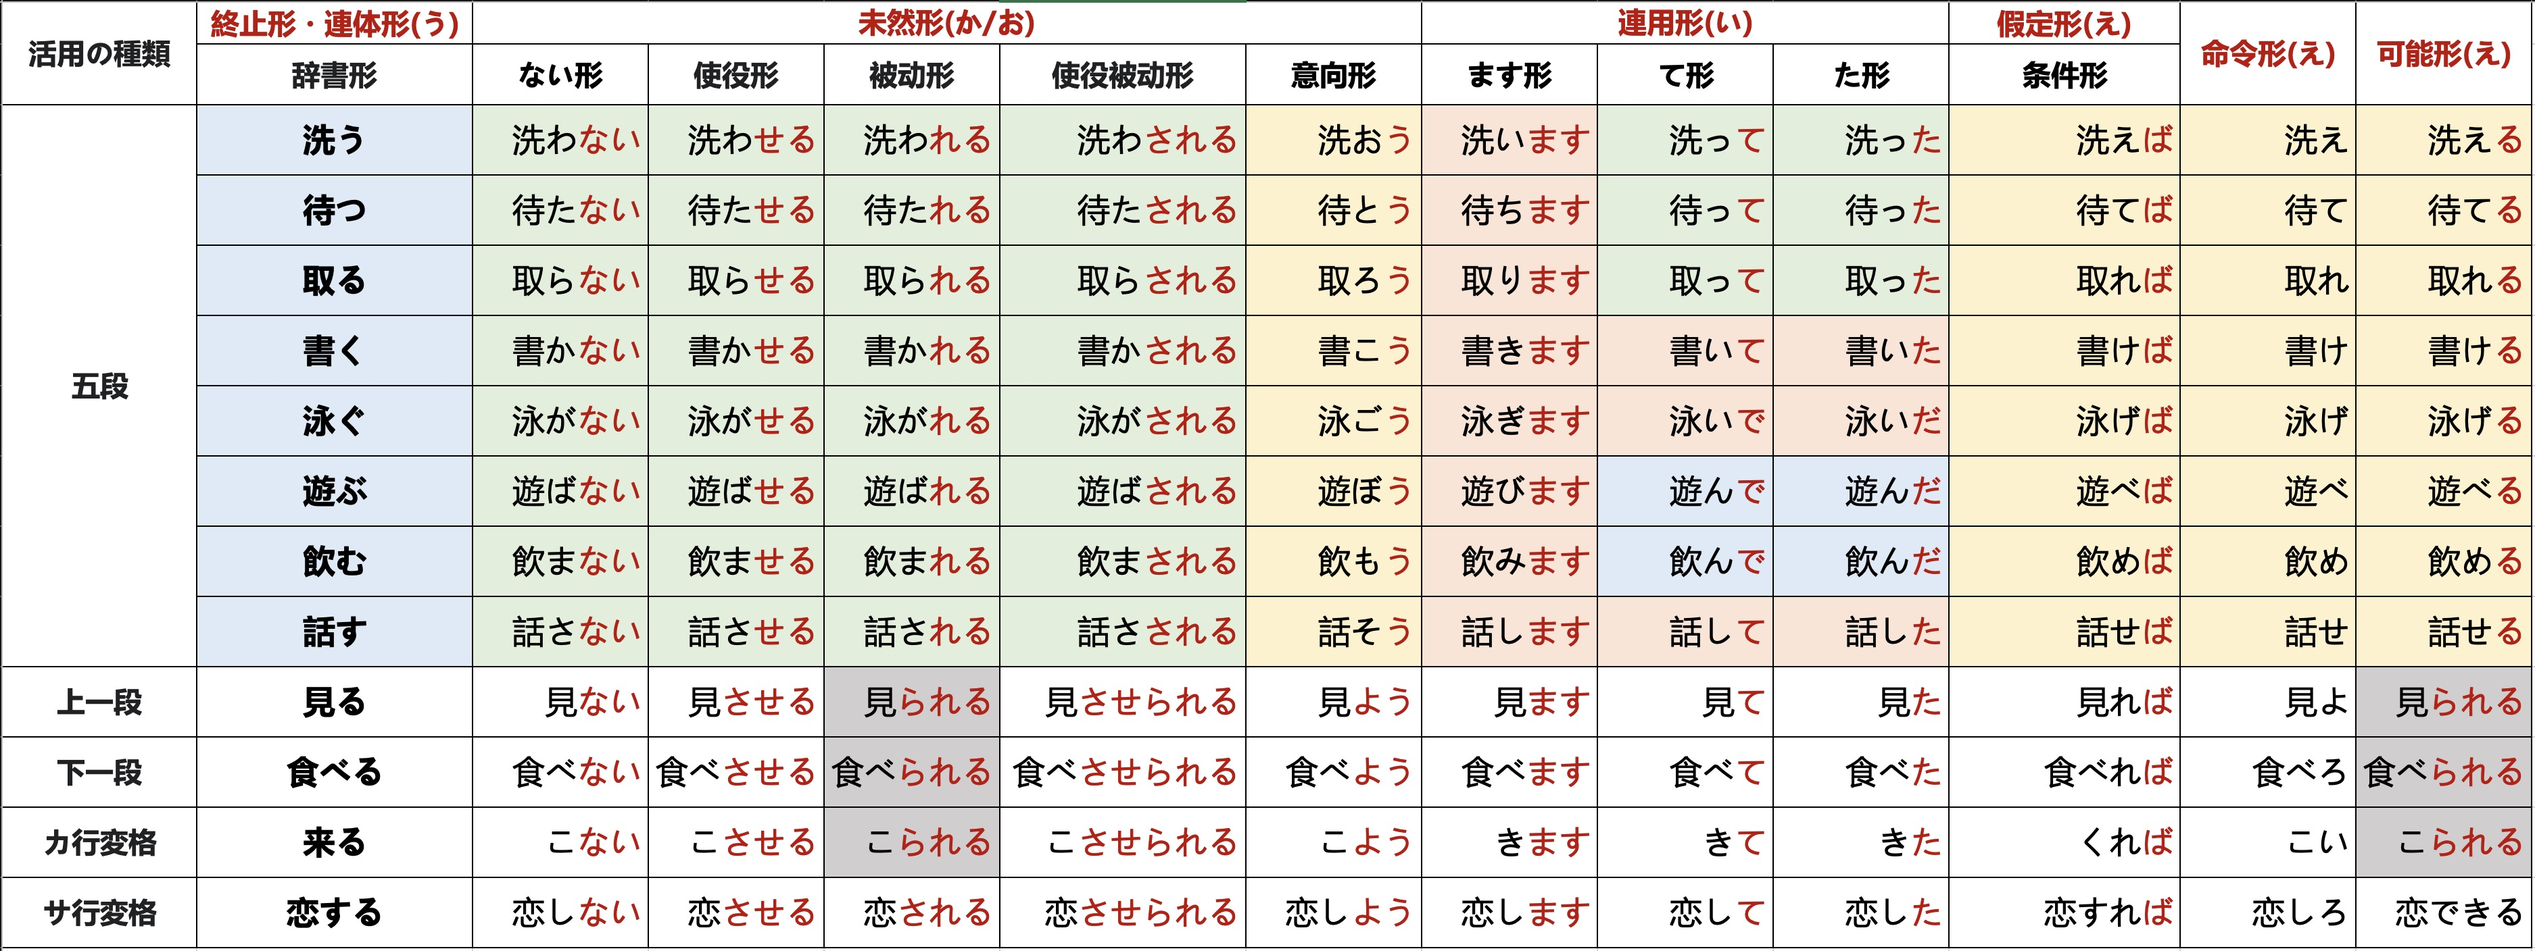
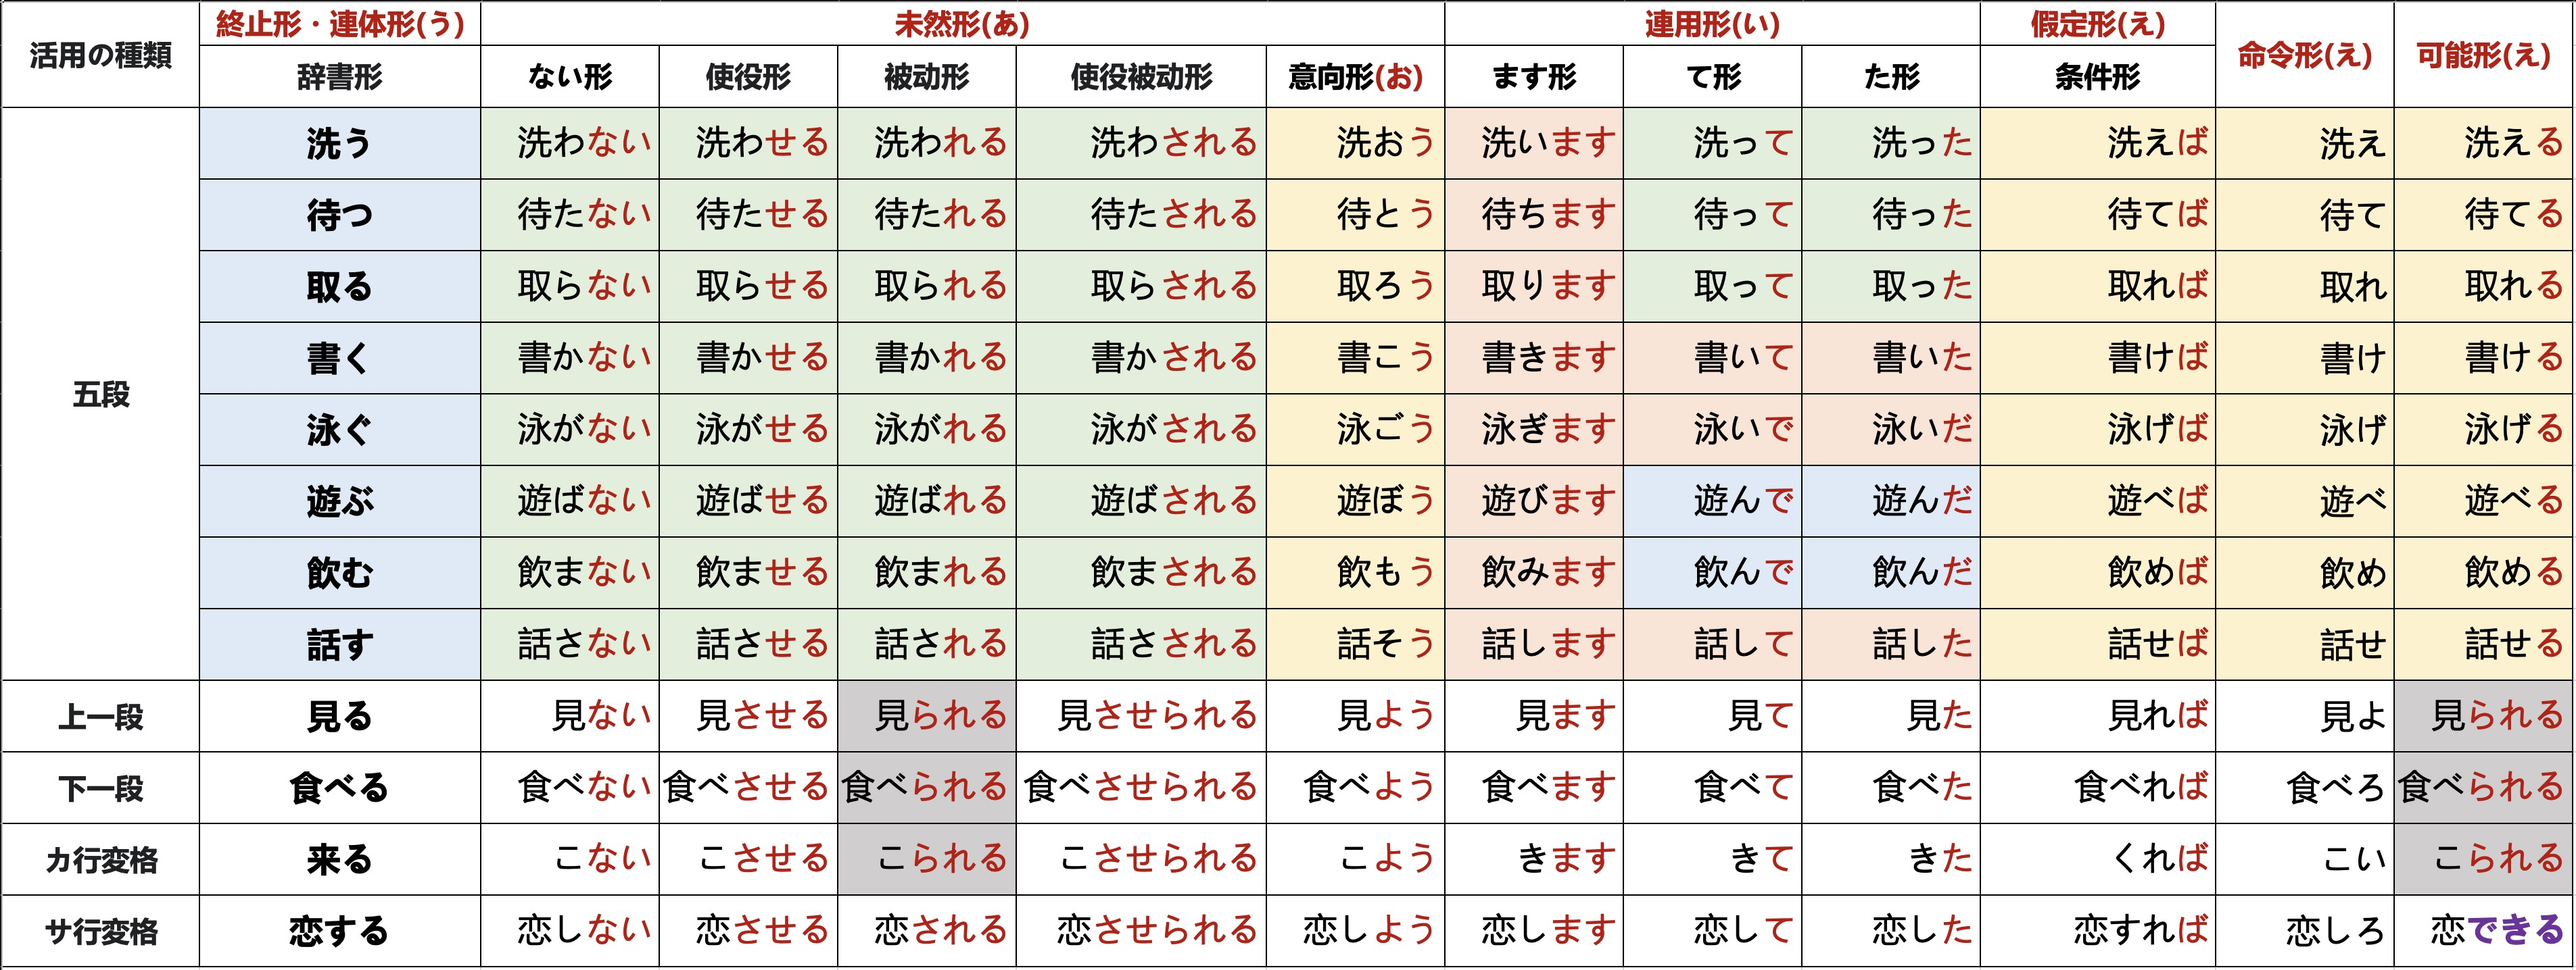
update Japanese grammar

diff --git a/docs-japanese/intro.md b/docs-japanese/intro.md
@@ -4,18 +4,6 @@ sidebar_position: 1
 
 # 日语语法
 
-<!-- export const Highlight = ({children, color}) => (
-  <span
-    style={{
-      backgroundColor: color,
-      borderRadius: '2px',
-      color: '#fff',
-      padding: '0.2rem',
-    }}>
-    {children}
-  </span>
-); -->
-
 export const Hb = ({children, color}) => (
   <span
     style={{
@@ -77,12 +65,12 @@ export const Hc = ({children, color}) => (
 
 ## 日语结构
 
-- 文章
-- 段落
-- 句子：以（。）为标志。
-- 节（复文）
-- 词组：友達と
-- 单词：友達
+1. <Hb>文章</Hb>
+1. <Hb>段落</Hb>
+1. <Hb>句子</Hb>：以<Hr>。</Hr>为标志
+1. <Hb>文节</Hb>：复文
+1. <Hb>词组</Hb>：友達と
+1. <Hb>单词</Hb>：友達
 
 
 ***
@@ -116,27 +104,29 @@ export const Hc = ({children, color}) => (
 日语侧重主题，而非主语
 
 ### 主题：提示出句子所描述的范围
-- 私<Hc>は</Hc>日本人です。 （「日本人です」的范围是「私」）
-- 桜<Hc>は</Hc>きれいです。 （「きれいです」的范围是「桜」）
-- 先生<Hc>は</Hc>トイレです。 （「トイレです」的范围是「先生」，不是「先生是厕所」）
-- 象<Hc>は</Hc>鼻が長いです。 （「鼻が長いです」的范围是「象」，鼻が＝补足语）
+- &ensp;&ensp;&ensp;&ensp;私<Hc>は</Hc>日本人です。 （「日本人です」的范围是「私」）
+- &ensp;&ensp;&ensp;&ensp;桜<Hc>は</Hc>きれいです。 （「きれいです」的范围是「桜」）
+- &ensp;&ensp;先生<Hc>は</Hc>トイレです。 （「トイレです」的范围是「先生」，不是「先生是厕所」）
+- &ensp;&ensp;&ensp;&ensp;象<Hc>は</Hc>鼻が長いです。 （「鼻が長いです」的范围是「象」，鼻が＝补足语）
 - ケーキ<Hc>は</Hc>太郎が買いました。 （「（太郎が）買いました」的范围是「ケーキ」，太郎が＝补足语）
 
 
 ### 主题和主语
-当述语的主语<Hb>是</Hb>主题时，使用<Hr>は</Hr>，重点在<Hb>述部</Hb>
+当述语的主语<Hb>是</Hb>&ensp;&ensp;主题时，使用<Hr>は</Hr>，重点在<Hb>述部</Hb>
 
 当述语的主语<Hb>不是</Hb>主题时，使用<Hr>が</Hr>，重点在<Hb>主语</Hb>
 
-### 主语作为补足语并非必要成分
+<br/>
+
+#### 主语作为补足语并非必要成分
 - 雨だ。
 - 八時ですよ。
 - どこへ行きますか。
 
-### 主题也不是必要成分
-雪が降っている。
-空が赤い。
-走れ！
+#### 主题也不是必要成分
+- 雪が降っている。
+- 空が赤い。
+- 走れ！
 
 
 
@@ -144,7 +134,7 @@ export const Hc = ({children, color}) => (
 
 ## 述语
 
-<Hr>四种文体</Hr>
+<Hr>四种形式</Hr>： <Hb>现在</Hb>+<Hb>过去</Hb>+<Hb>肯定</Hb>+<Hb>否定</Hb>
 
 ### 名词句
 - 〇〇<Hb>は</Hb>何だ:是什么

diff --git a/docs-japanese/动词名词化.md b/docs-japanese/动词名词化.md
@@ -41,7 +41,7 @@ export const Hc = ({children, color}) => (
   </span>
 );
 
-## 动词接续形式名词当作补足语
+## 动词连体形 + 形式名词 = 补足语
 
 常用形式名词：　<Hr>の</Hr>　<Hr>こと</Hr>
 
@@ -56,7 +56,7 @@ export const Hc = ({children, color}) => (
 - <Hc>便利なの</Hc><Hb>は</Hb>魅力的ですが、家賃がちょっと....
 - <Hc>好きなの</Hc><Hb>を</Hb>持っていってください。
 
-## 只能使用「〜こと」
+## 只能使用「〜こと」的情况
 
 ### 1. 定型表现
 
@@ -80,7 +80,7 @@ export const Hc = ({children, color}) => (
 - 趣味は本を<Hc>読むこと</Hc>です。
 - ❌ 趣味は本を<Hc>読むの</Hc>だ。
 
-## 只能使用「〜の」
+## 只能使用「〜の」的情况
 
 当表示<Hb>情报</Hb>、<Hb>资讯</Hb>时，这时只能使用「の」，而不能使用「こと」。<br/>
 严格来说，这里的「の」属于「形式名词」的功能。<br/>
@@ -92,13 +92,14 @@ export const Hc = ({children, color}) => (
 - 彼は <Hc>日本から持って来たの</Hc><Hb>は</Hb>携帯だ。 (他從日本帶回的是手機)
 - <Hc>電車が遅れたの</Hc><Hb>は</Hb>機械の故障だ。(造成電車誤點的是機械故障)
 
-### １. 強調構文　代名詞
+### １. 强调构文
+
+
+名词を强调して述べる强调构文の场合、「～の」しか使うことができません。
 
 <Hc>私が生まれたの</Hc><Hb>は</Hb>小さな町だ。<br/>
-<Hc>私が注文したの</Hc><Hb>は</Hb>スパゲッティだ。
+<Hc>私が注文したの</Hc><Hb>は</Hb>スパゲッティだ。<br/>
 
-
-のように名词を强调して述べる强调构文の场合、「～の」しか使うことができません。
 
 此种情况下，只能使用「の」、而不能使用「こと」，以中文来思考就 会很容易理解。「の」意为「的」，「こと」的汉字写作「事」、意为「事 情」，因此，使用「こと」代换就会变得很不自然。
 
@@ -111,7 +112,7 @@ export const Hc = ({children, color}) => (
 - <Hc>修学旅行に行けないの</Hc><Hb>は</Hb>病気のためです。
 - <Hc>今朝遅刻したの</Hc><Hb>は</Hb>電車が遅れたからです。
 
-### ２. 知覚動詞の前
+### ２. 知觉动词前
 
 「見る」や「聞く」など知覚を表す動詞の前では「の」しか使うことができません。
 

diff --git a/docs-japanese/日语词法.md b/docs-japanese/日语词法.md
@@ -4,7 +4,44 @@ sidebar_position: 2
 
 # 日语词法
 
-|            | 名词       | 动词                                                                         | 形容词 | 形容动词 | 副词 | 连体词 | 接续词 | 感应词 |
+
+export const Hb = ({children, color}) => (
+  <span
+    style={{
+      backgroundColor: '#1877F2',
+      borderRadius: '2px',
+      color: '#fff',
+      padding: '0.2rem',
+    }}>
+    {children}
+  </span>
+);
+
+export const Hr = ({children, color}) => (
+  <span
+    style={{
+      backgroundColor: '#F00175',
+      borderRadius: '2px',
+      color: '#fff',
+      padding: '0.2rem',
+    }}>
+    {children}
+  </span>
+);
+
+export const Hc = ({children, color}) => (
+  <span
+    style={{
+      backgroundColor: '#25c2a0',
+      borderRadius: '2px',
+      color: '#fff',
+      padding: '0.2rem',
+    }}>
+    {children}
+  </span>
+);
+
+|            | 名词       | 动词                                                                         | 形容词 | 形容动词 | 副词 | 连体词 | 接续词 | 感动词 |
 | ---------- | ---------- | ---------------------------------------------------------------------------- | ------ | -------- | ---- | ------ | ------ | ------ |
 | 主题       | ✅          |                                                                              |        |          |      |        |        |        |
 | 述语       | ✅ + 助述词 | ✅                                                                            | ✅      | ✅        |      |        |        |        |
@@ -14,9 +51,23 @@ sidebar_position: 2
 | 接续语     |            |                                                                              |        |          |      |        | ✅      |        |
 | 独立语     | ✅          |                                                                              |        |          |      |        |        | ✅      |
 
-![词法](/img/japanese/词法.jpeg)
+![词法](/img/japanese/日语单词分类.png)
+
+## 第一层
+
+### 自立語
+一个可以单独构成一个<Hb>文节</Hb>的词。
+
+### 付属語
+需要和其他词一起，才能构成一个<Hb>文节</Hb>。
 
 ***
+
+## 第二层
+
+### 修饰语
+### 接续语
+### 独立语
 
 ## 连体词
 连接修饰名词的词

diff --git a/docs-japanese/述语变形.md b/docs-japanese/述语变形.md
@@ -2,9 +2,11 @@
 sidebar_position: 4
 ---
 
-# 动词变化
+# 述语变形
 
 ## 动词变形
+
+### 学校文法（六种变形+助动词）
 
 - 终止形：常置于句末来结束一段句子，但也可再后接终助词来表达语气。字典习惯上以终止形来代表用言和助动词，故教育文法称为辞書形。
 - 连体形：外型与终止形相同。
@@ -14,14 +16,13 @@ sidebar_position: 4
   - 否定助动词“ない”
   - 推量助动词“う”
   - 使役助动词“せる/させる”
+  - 意向形：本身是未然形接续推量助动词“う”之后进一步音便的结果。
 - 连用形：可用来接续其他用言和大部分的助动词；或接在“、”前来暂时中止句子。也可直接作为名词。 
   - 如名词“休み”来自“休やすむ”的连用形；
   - 来自连用形的名词可和其他名词组成复合词，如“読み方”是“読よむ”的连用形+名词“方”
 - 假定形：可接续助词“ば”来表示假设或确定条件。
 - 命令形：大多表示不礼貌或熟人间的直接命令，或是路标的警示。可以接续终助词来强调命令的口气。
-- 可能形(特殊未然形)：未然形语尾不是ア段结尾的动词都是以“未然形+られる”
-
-
+  
 ![动词变形](/img/japanese/动词变形.jpg)
 
 ## 其他词类变形

diff --git a/docs-japanese/述语四种变化.md b/docs-japanese/述语四种变化.md
@@ -2,7 +2,7 @@
 sidebar_position: 3
 ---
 
-# 述语四变化
+# 述语四种变化
 
 export const Hb = ({children, color}) => (
   <span
